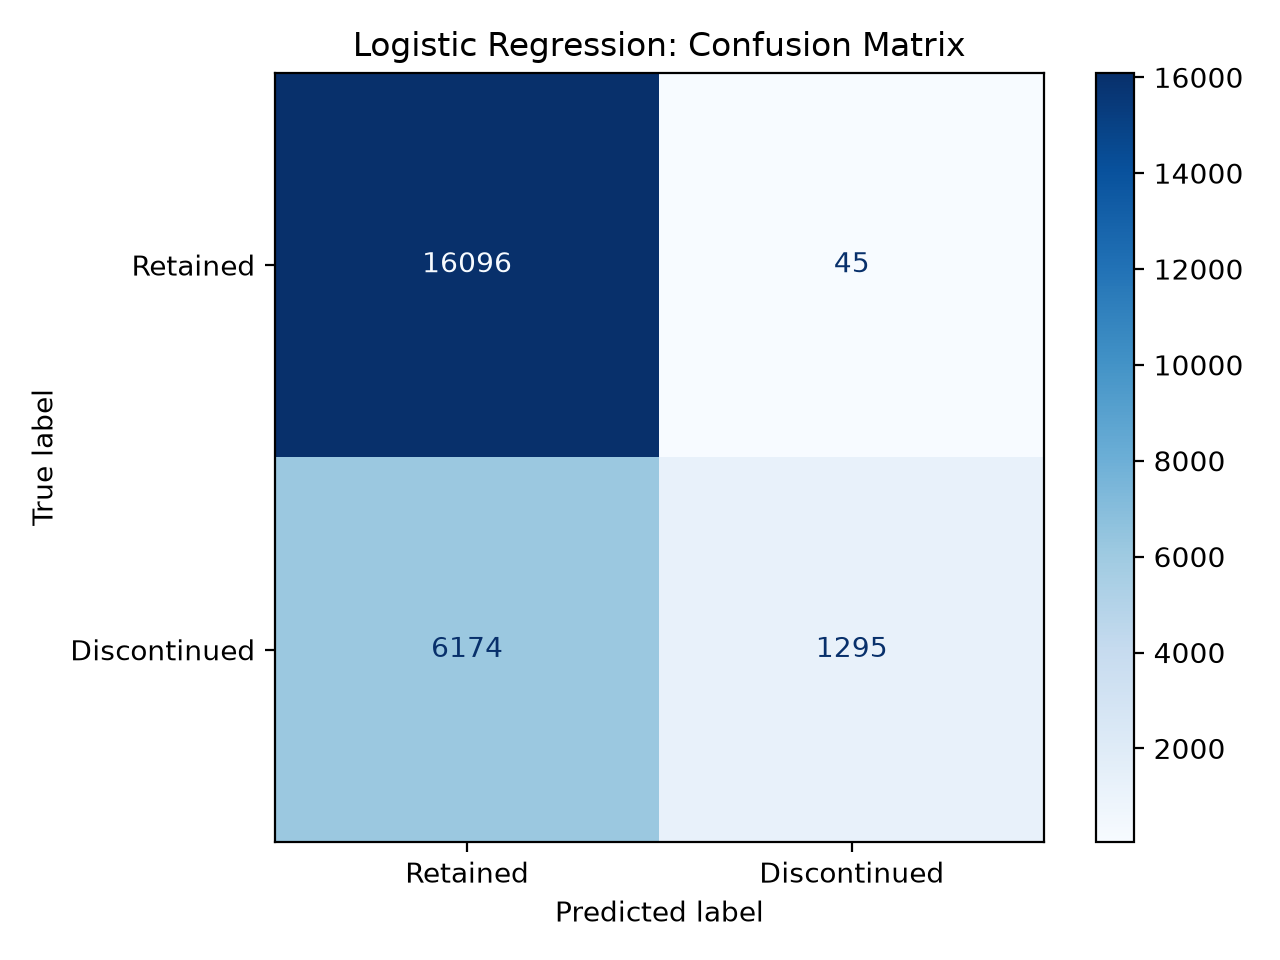
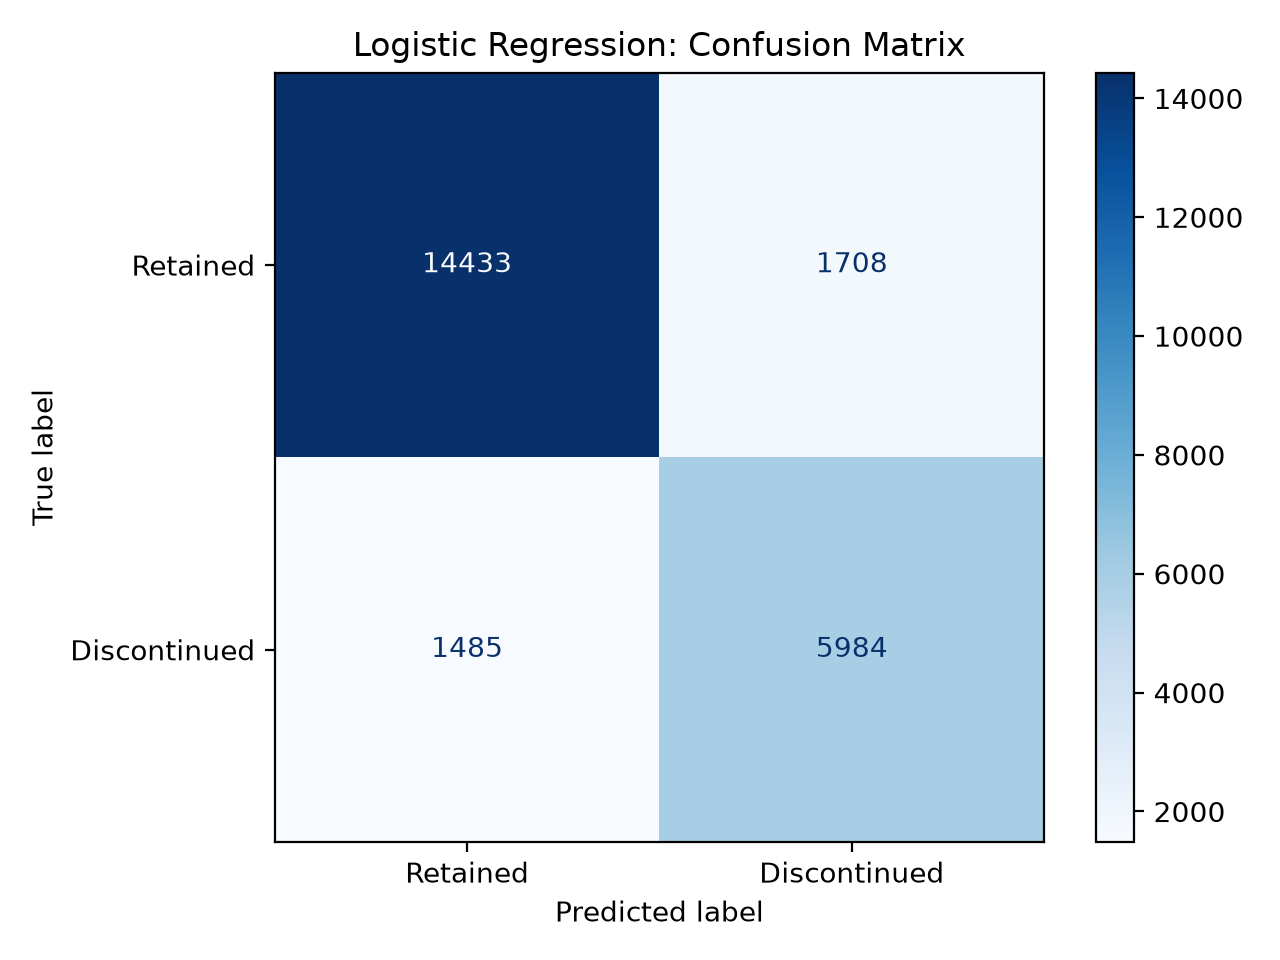
Align final evaluation with selected threshold

diff --git a/src/final_evaluation.py b/src/final_evaluation.py
@@ -28,7 +28,7 @@ def main():
         "models/logistic_regression_tuned_v1.joblib"
     )
 
-    predictions = model.predict(X_test)
+    predictions = (model.predict_proba(X_test)[:, 1] >= 0.10).astype(int)
     probabilities = model.predict_proba(X_test)[:, 1]
 
     figures = Path("outputs/figures")
